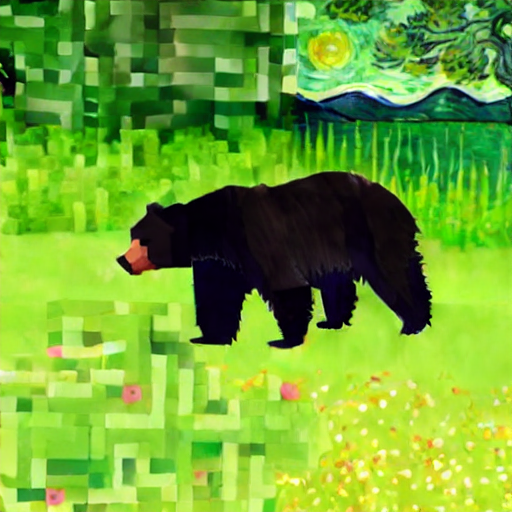
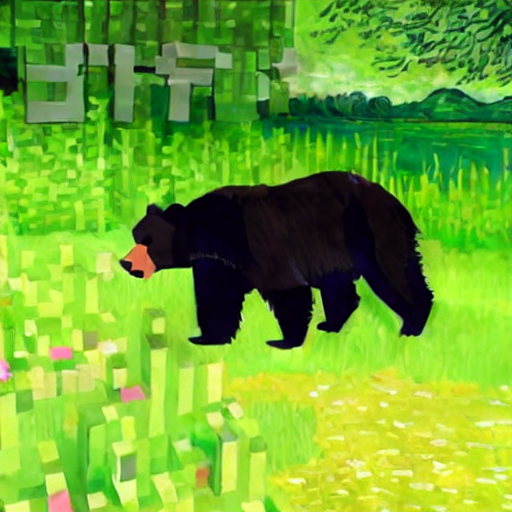
tests

diff --git a/model/lib/stable_diffusion/ldm/modules/attention.py b/model/lib/stable_diffusion/ldm/modules/attention.py
@@ -194,7 +194,7 @@ class CrossAttention(nn.Module):
                 x_weights = x_coords.repeat(width, 1).reshape(-1)
                 x_weights = x_weights.unsqueeze(0).repeat(b, 1)
                 
-                sharpness = 50.0 
+                sharpness = 20.0 
                 x_weights = torch.exp(sharpness * (x_weights - 0.5)) / (torch.exp(sharpness * (x_weights - 0.5)) + 1)
 
                 # Rearrange tensors for attention computation
